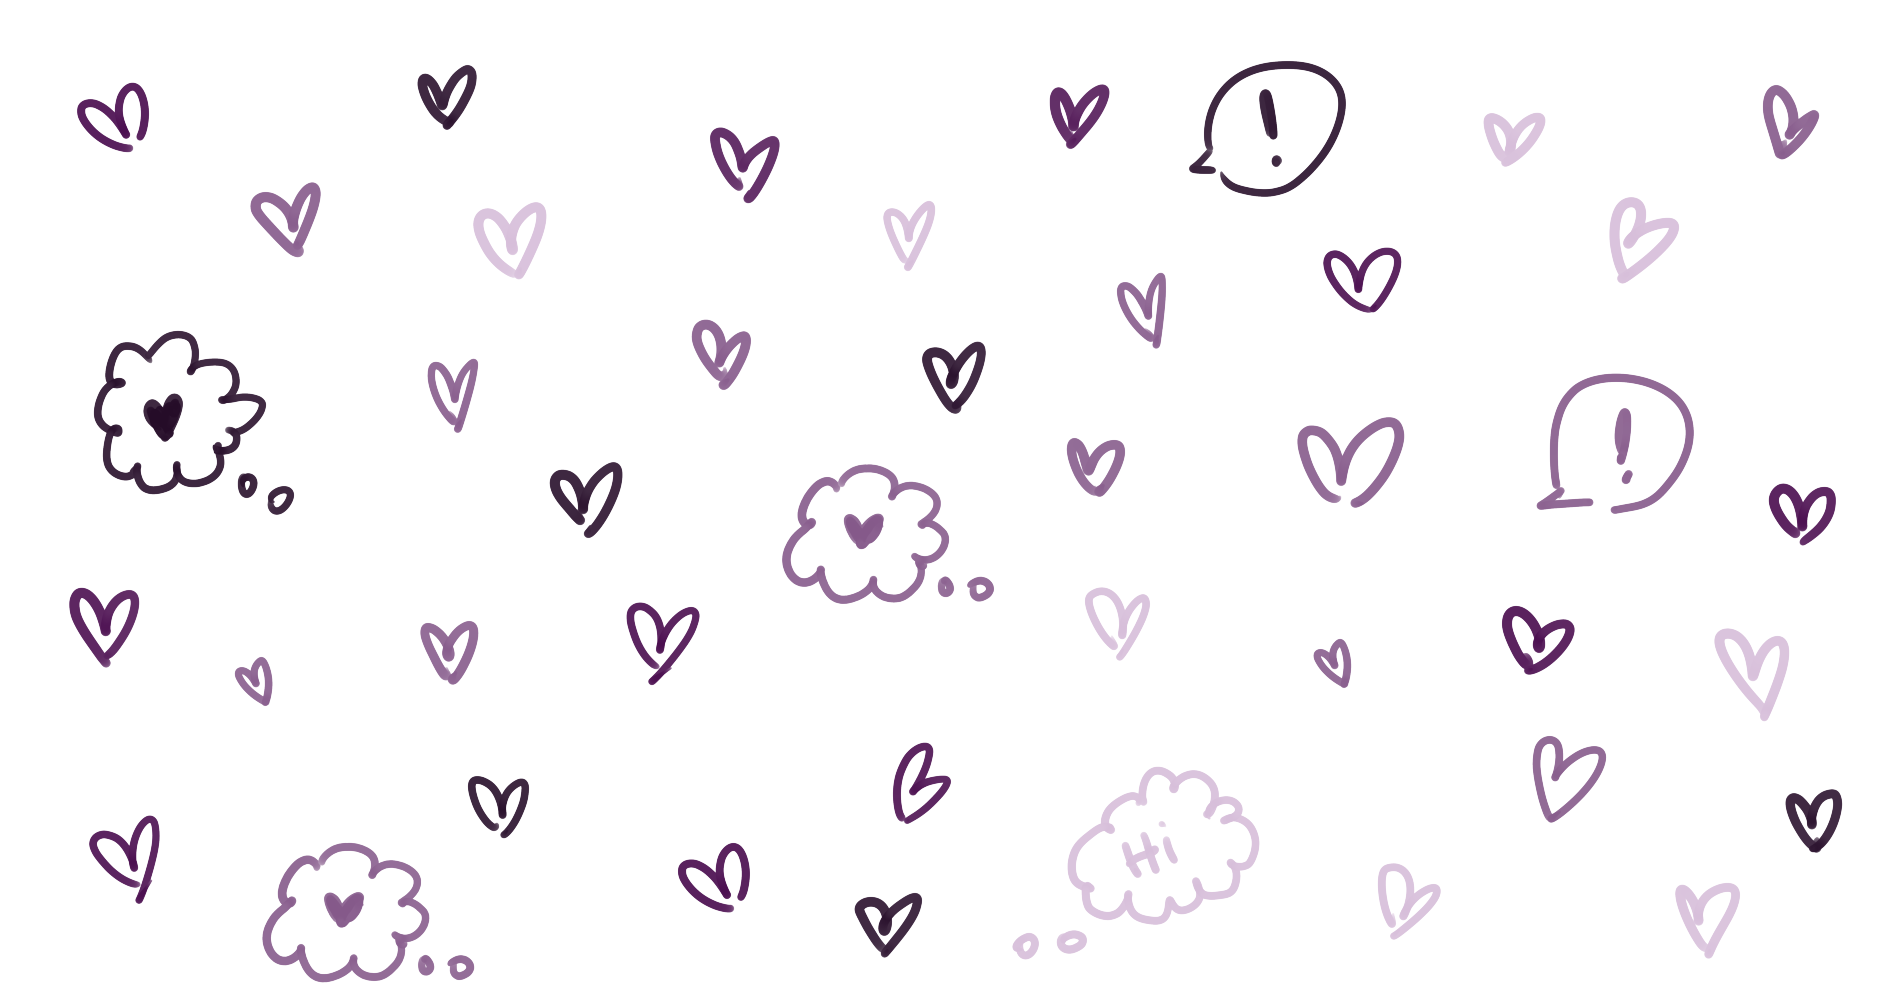
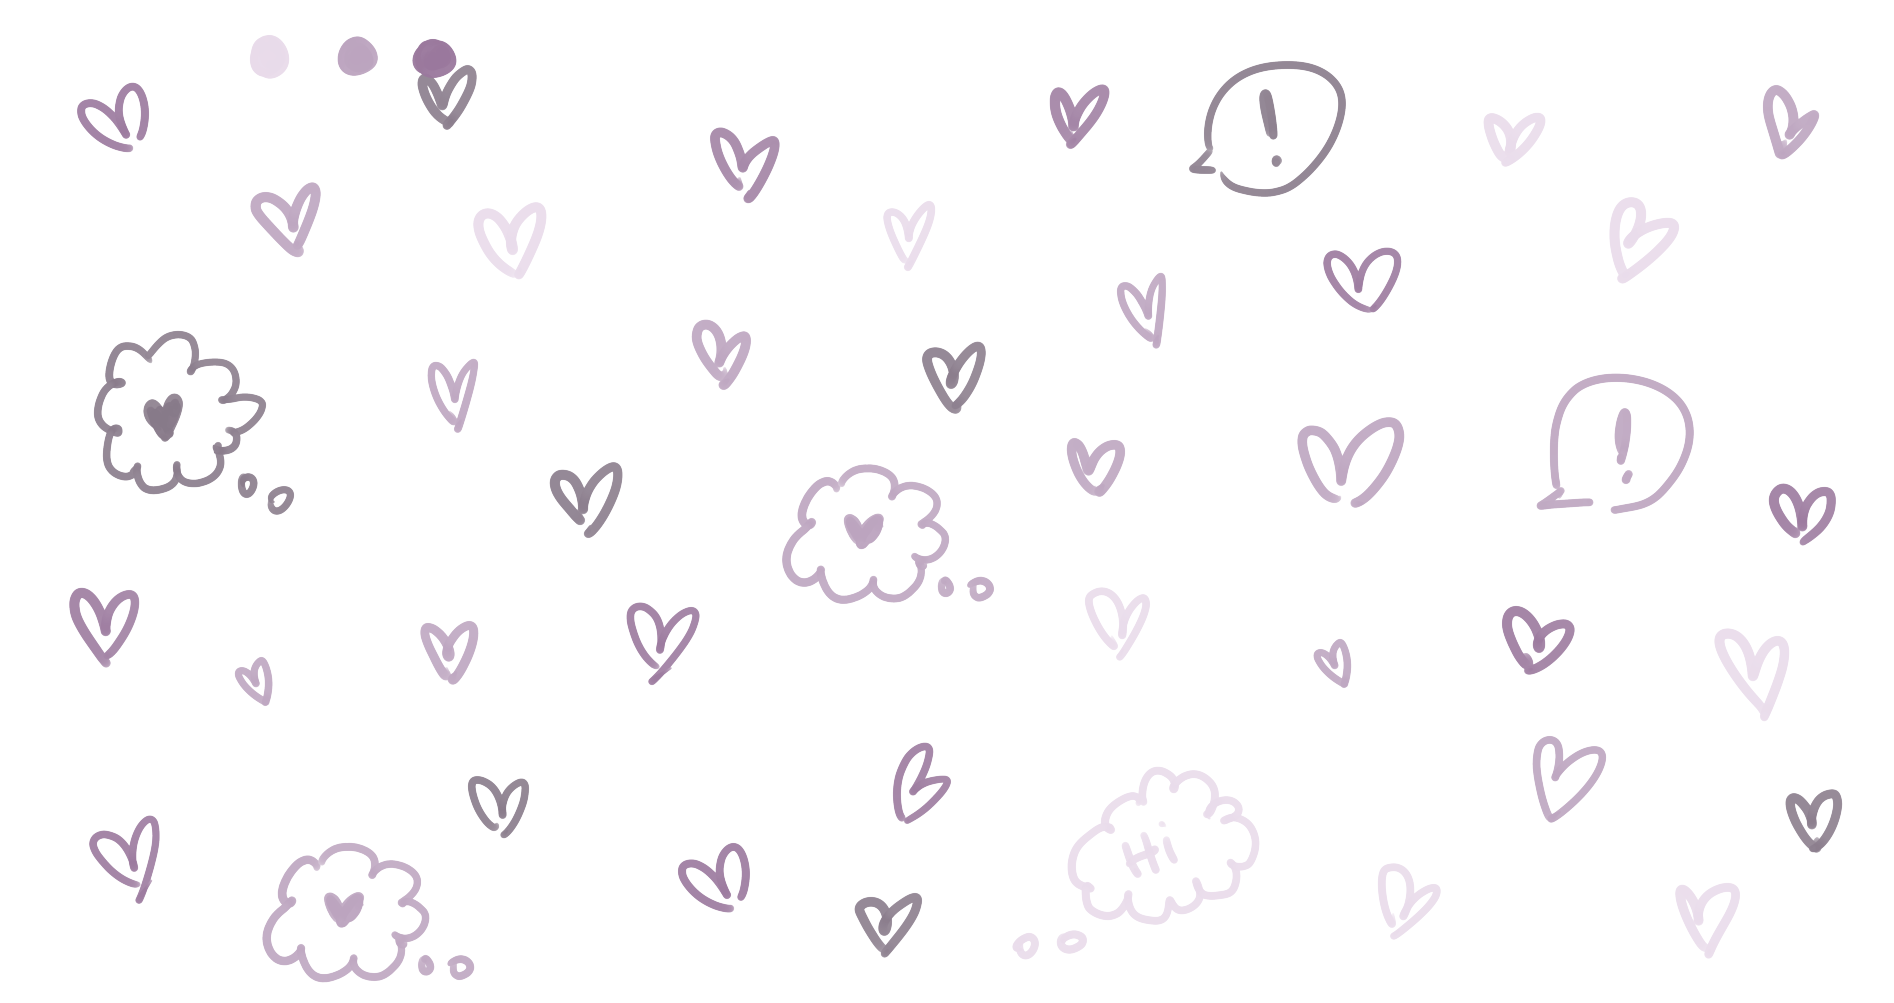
menu fix lol

diff --git a/src/scenes/Menu.js b/src/scenes/Menu.js
@@ -28,7 +28,6 @@ class sceneMenu {
         background(UI.VLIGHT_COLOR);
         
         // wings bg
-        tint(255, 100);
         image(
             IMG["menuwingsbg.png"],
             wingbgTick,
@@ -50,8 +49,6 @@ class sceneMenu {
             heartbgTick + (CANVAS_SIZE.x * 1.5),
             -CANVAS_SIZE.y/5,
         );
-
-        tint(255, 255);
        
        
         // title peepeepoopoo
